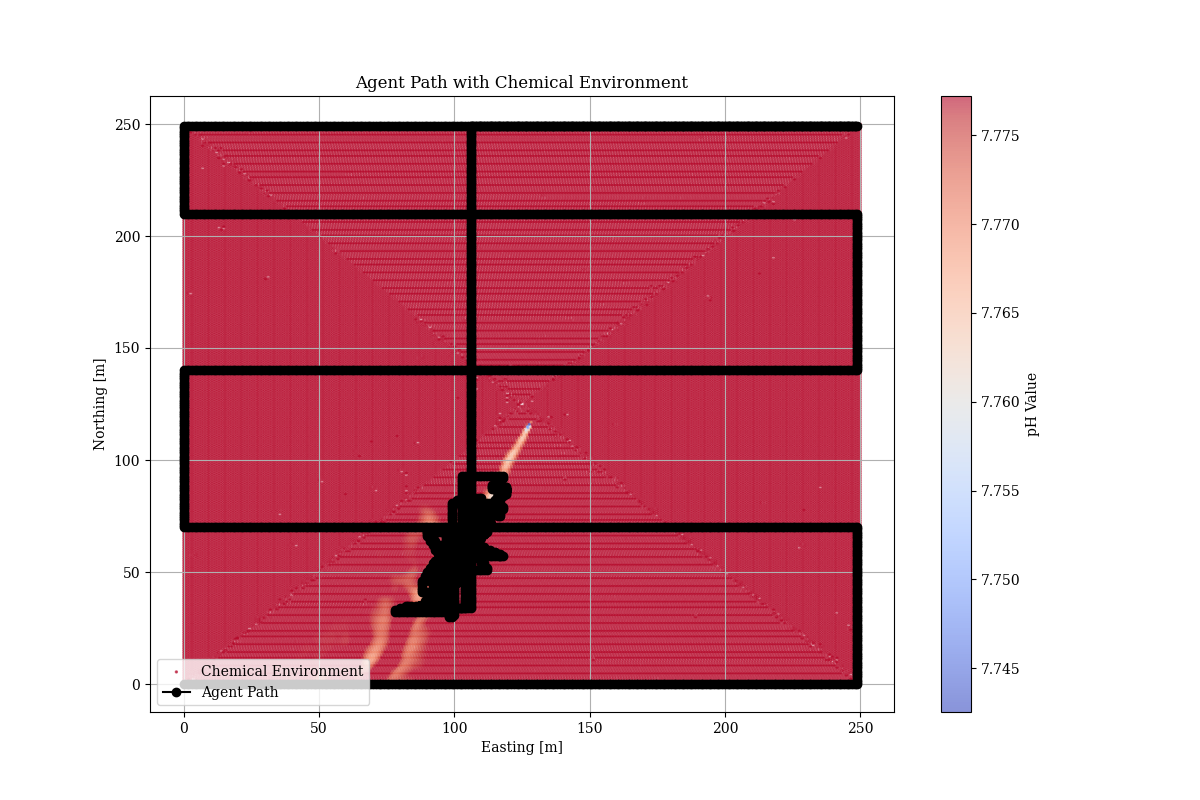
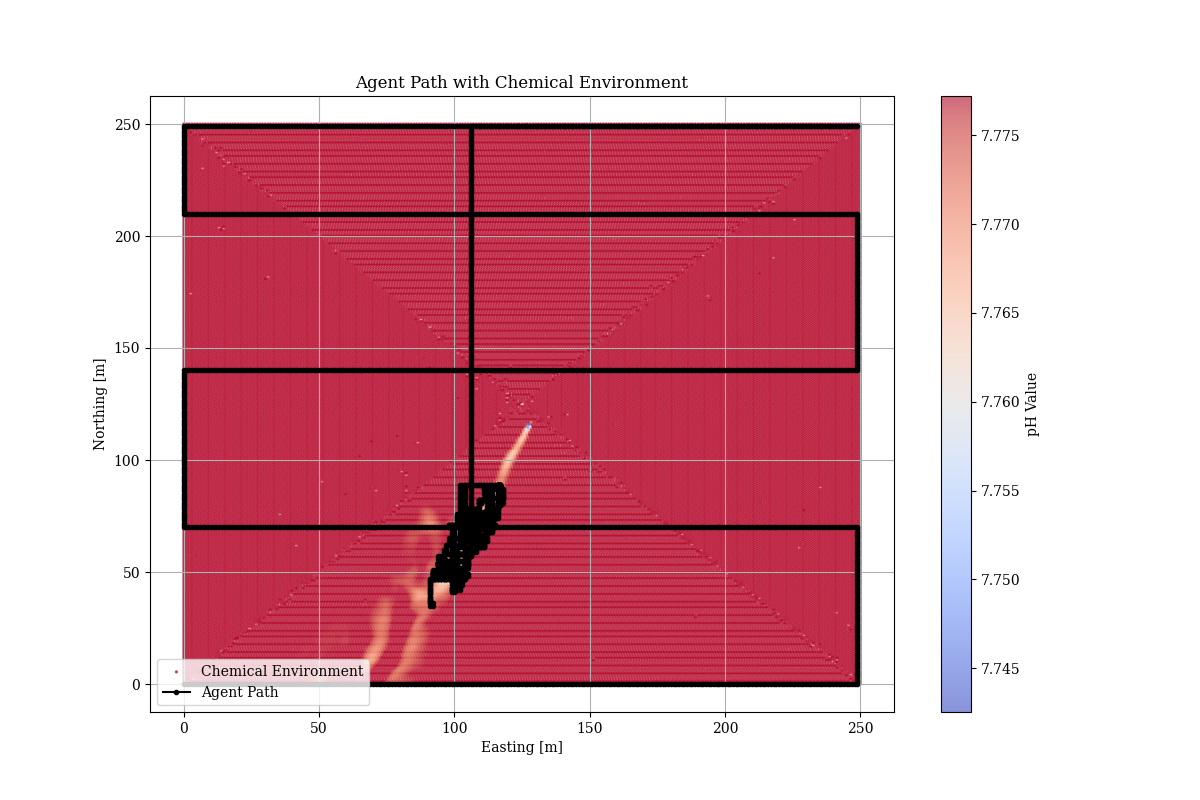
nicer plots

Changed region(s): [[0.1542, 0.125, 0.74, 0.8438], [0.1542, 0.8438, 0.7092, 0.875]]

diff --git a/src/AUV_plot_utils.py b/src/AUV_plot_utils.py
@@ -44,7 +44,7 @@ def plot_agent_behavior(position_history, chemical_file_path, time_target, z_tar
         fig, _ = draw_environment(chemical_file_path, time_target, z_target, data_parameter)
         
     x_coords, y_coords = zip(*position_history)
-    ax.plot(x_coords, y_coords, marker='k-', color='black', label='Agent Path')
+    ax.plot(x_coords, y_coords, marker=',', color='black', label='Agent Path')
     
     # Add labels and title
     ax.set_xlabel('Easting [m]')
@@ -66,7 +66,7 @@ def plot_gas_accuracy_vs_episodes(ax, episodes_trained, gas_accuracy):
     if len(episodes_trained) != len(gas_accuracy):
         raise ValueError(f"Episodes trained does not match gas accuracy {len(episodes_trained)=} {len(gas_accuracy)=}")
     
-    ax.plot(episodes_trained, gas_accuracy, marker='o', linestyle='-', color='b')
+    ax.plot(episodes_trained, gas_accuracy, marker=',', linestyle='-', color='b')
     ax.set_xlabel('Episodes Trained')
     ax.set_ylabel('Gas Accuracy')
     ax.set_title('Gas Accuracy vs Episodes Trained')
